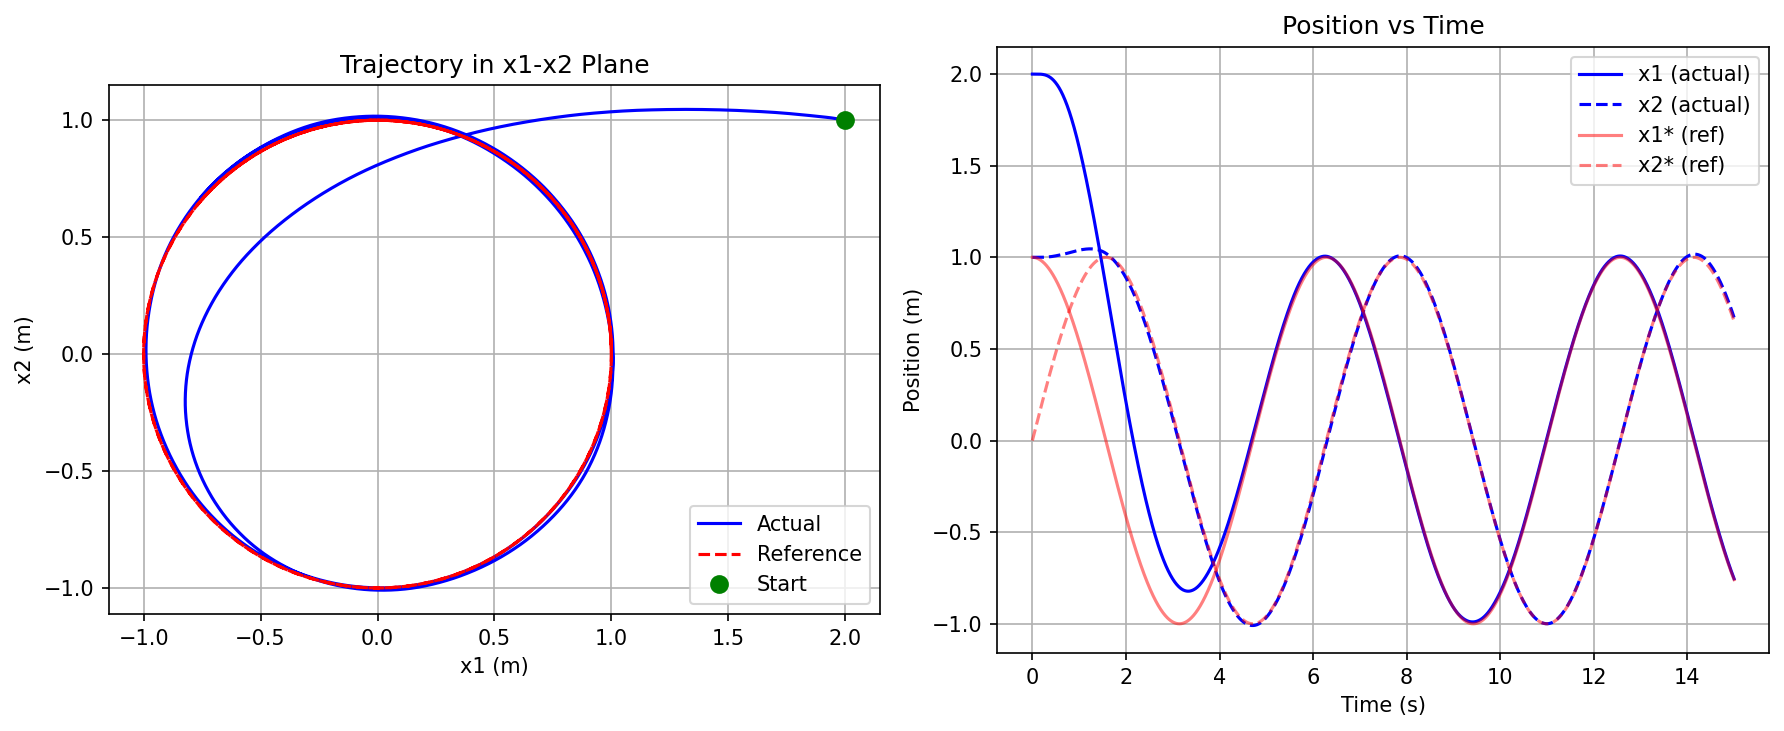
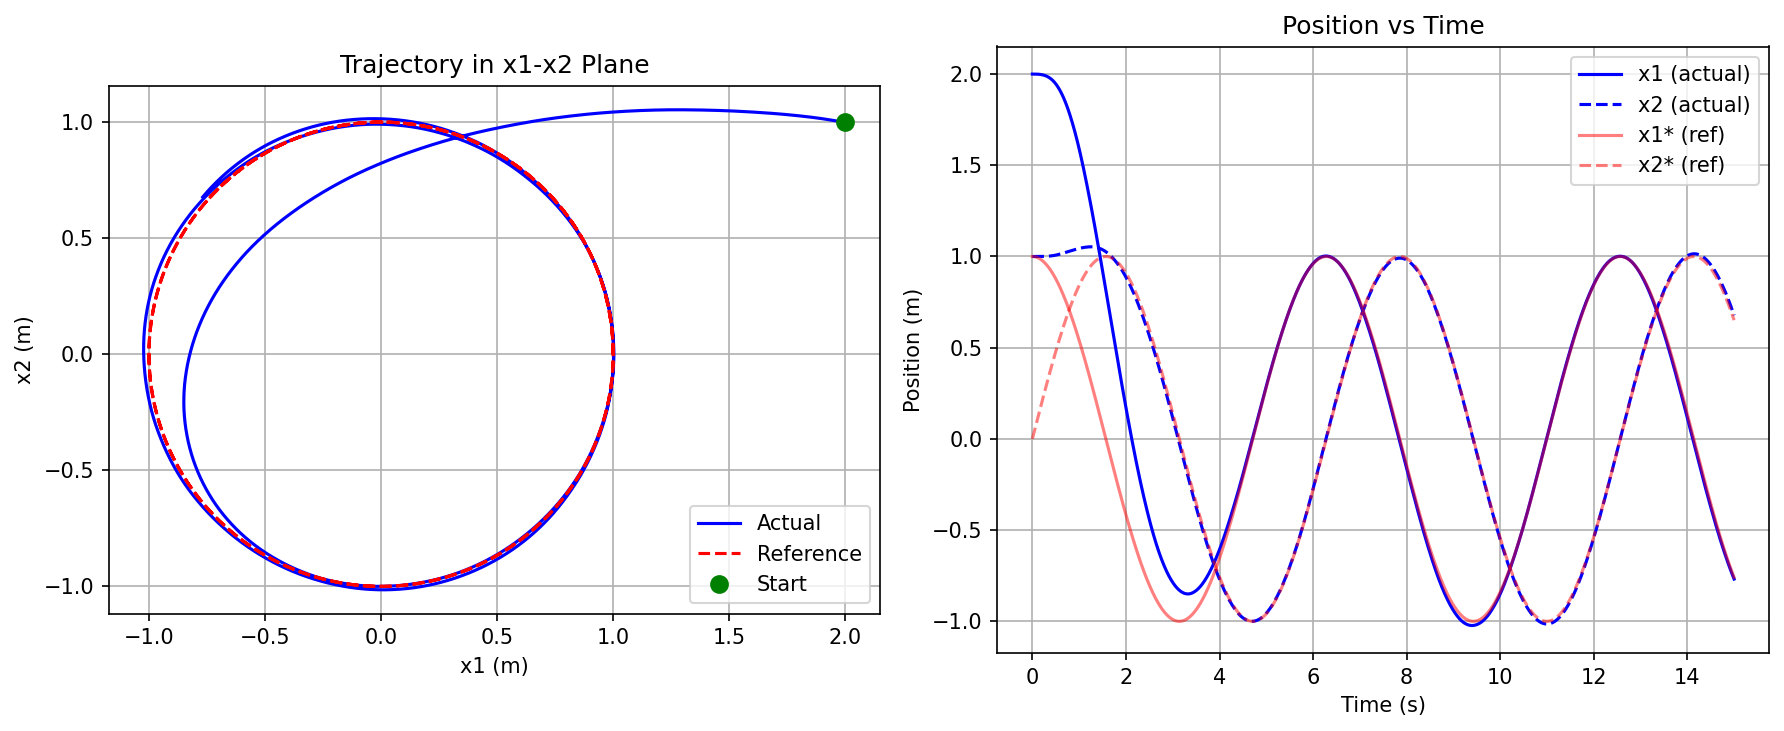
Section 3

diff --git a/tracking_cbf.py b/tracking_cbf.py
@@ -1,0 +1,278 @@
+import numpy as np
+from scipy.integrate import odeint
+import matplotlib.pyplot as plt
+
+# Parameters
+def get_params():
+    I = 1.0    # Moment of inertia
+    g = 9.8    # Gravitational acceleration (m/s^2)
+    m = 1.0    # Multirotor mass
+    return I, g, m
+
+# Reference trajectory
+def ref_trajectory(t, w):
+    c, s = np.cos(w*t), np.sin(w*t)
+    y      = np.array([ c,       s])
+    dy     = np.array([-w*s,     w*c])
+    ddy    = np.array([-w**2*c, -w**2*s])
+    dddy   = np.array([ w**3*s, -w**3*c])
+    ddddy  = np.array([ w**4*c,  w**4*s])
+    return y, dy, ddy, dddy, ddddy
+
+# Nominal tracking controller (from Part II)
+def nominal_controller(x_ext, t, w, lam):
+    x1, x2, v1, v2, theta, omega, x7, x8 = x_ext
+    I, g, m = get_params()
+    sin_t = np.sin(theta)
+    cos_t = np.cos(theta)
+
+    # Output derivatives from state
+    y    = np.array([x1, x2])
+    dy   = np.array([v1, v2])
+    ddy  = np.array([-x7*sin_t, x7*cos_t - g])
+    dddy = np.array([-x8*sin_t - x7*omega*cos_t,
+                      x8*cos_t - x7*omega*sin_t])
+
+    # State-only terms in y^(4)
+    b = np.array([
+        -2*x8*omega*cos_t + x7*omega**2*sin_t,
+        -2*x8*omega*sin_t - x7*omega**2*cos_t
+    ])
+
+    # Decoupling matrix
+    A_ext = np.array([
+        [-sin_t, -x7*cos_t],
+        [ cos_t, -x7*sin_t]
+    ])
+
+    # Reference and tracking errors
+    y_ref, dy_ref, ddy_ref, dddy_ref, ddddy_ref = ref_trajectory(t, w)
+    e    = y    - y_ref
+    ed   = dy   - dy_ref
+    edd  = ddy  - ddy_ref
+    eddd = dddy - dddy_ref
+
+    # Gains from (s + lambda)^4
+    k0 = lam**4
+    k1 = 4*lam**3
+    k2 = 6*lam**2
+    k3 = 4*lam
+
+    # Virtual input
+    nu = ddddy_ref - k3*eddd - k2*edd - k1*ed - k0*e
+
+    # Feedback linearizing law: u = A_ext^{-1}(nu - b)
+    try:
+        u_nom = np.linalg.solve(A_ext, nu - b)
+    except np.linalg.LinAlgError:
+        u_nom = np.array([0.0, 0.0])
+
+    return u_nom  # [u1_tilde, u2]
+
+# HOCBF computation
+def compute_hocbf(x_ext, L, gammas):
+    x1, x2, v1, v2, theta, omega, x7, x8 = x_ext
+    g1, g2, g3, g4 = gammas
+    sin_t = np.sin(theta)
+    cos_t = np.cos(theta)
+    I, g, m = get_params()
+
+    # h and its derivatives
+    h    = L - x1
+    h_d1 = -v1
+    h_d2 = x7*sin_t
+    h_d3 = x8*sin_t + x7*omega*cos_t
+
+    b_h = 2*x8*omega*cos_t - x7*omega**2*sin_t
+    L_g_h4 = np.array([sin_t, x7*cos_t])
+
+    # HOCBF chain
+    psi0 = h
+    psi1 = h_d1 + g1*h
+    psi2 = h_d2 + (g1+g2)*h_d1 + g1*g2*h
+    psi3 = (h_d3
+            + (g1+g2+g3)*h_d2
+            + (g1*g2 + g3*(g1+g2))*h_d1
+            + g1*g2*g3*h)
+
+    # psi3_dot split into state part (L_f) and input part (L_g)
+    c_h_d2 = g1*g2 + g3*(g1+g2)
+    L_f_psi3 = (b_h
+                + (g1+g2+g3)*h_d3
+                + c_h_d2*h_d2
+                + g1*g2*g3*h_d1)
+    L_g_psi3 = L_g_h4
+
+    return psi3, L_f_psi3, L_g_psi3
+
+# BF-QP safety filter
+def cbf_qp_filter(u_nom, x_ext, L, gammas):
+    g4 = gammas[3]
+    psi3, L_f_psi3, L_g_psi3 = compute_hocbf(x_ext, L, gammas)
+
+    # Constraint
+    a = L_g_psi3
+    c = -(L_f_psi3 + g4*psi3)
+
+    if a @ u_nom >= c:
+        return u_nom
+
+    a_norm_sq = a @ a
+    if a_norm_sq < 1e-10:
+        return u_nom
+
+    mu = u_nom + ((c - a @ u_nom) / a_norm_sq) * a
+    return mu
+
+# Controller
+def make_tracking_controller(w, lam):
+    def controller(x_ext, t):
+        return nominal_controller(x_ext, t, w, lam)
+    return controller
+
+def make_cbf_controller(w, lam, L, gammas):
+    def controller(x_ext, t):
+        u_nom = nominal_controller(x_ext, t, w, lam)
+        u_safe = cbf_qp_filter(u_nom, x_ext, L, gammas)
+        return u_safe
+    return controller
+
+# Extended system dynamics
+def extended_system(x_ext, t, controller):
+    I, g, m = get_params()
+    x1, x2, v1, v2, theta, omega, x7, x8 = x_ext
+    u1_tilde, u2 = controller(x_ext, t)
+
+    dx = np.zeros(8)
+    dx[0] = v1
+    dx[1] = v2
+    dx[2] = -(1/m)*x7*np.sin(theta)
+    dx[3] = (1/m)*x7*np.cos(theta) - g
+    dx[4] = omega
+    dx[5] = (1/I)*u2
+    dx[6] = x8
+    dx[7] = u1_tilde
+    return dx
+
+# xtended system with parameter mismatch
+def extended_system_mismatch(x_ext, t, controller):
+    m_true = 1.1    # controller assumes 1.0
+    g_true = 10.0   # controller assumes 9.8
+    I_true = 1.0
+
+    x1, x2, v1, v2, theta, omega, x7, x8 = x_ext
+    u1_tilde, u2 = controller(x_ext, t)
+
+    dx = np.zeros(8)
+    dx[0] = v1
+    dx[1] = v2
+    dx[2] = -(1/m_true)*x7*np.sin(theta)
+    dx[3] = (1/m_true)*x7*np.cos(theta) - g_true
+    dx[4] = omega
+    dx[5] = (1/I_true)*u2
+    dx[6] = x8
+    dx[7] = u1_tilde
+    return dx
+
+# Simulation
+def simulate_extended(x0, tfinal, timestep, controller, dynamics=None):
+    if dynamics is None:
+        dynamics = extended_system
+    t = np.arange(0, tfinal, timestep)
+    sol = odeint(dynamics, x0, t, args=(controller,))
+    return t, sol
+
+# Euler integration
+def simulate_euler_ext(x0, tfinal, dt, controller, dynamics=None, noise_std=0.0):
+    if dynamics is None:
+        dynamics = extended_system
+    t = np.arange(0, tfinal, dt)
+    x = np.array(x0, dtype=float)
+    sol = [x.copy()]
+    for i in range(1, len(t)):
+        dx = dynamics(x, t[i], controller)
+        noise = np.zeros(8)
+        noise[2] = np.random.normal(0, noise_std)
+        noise[3] = np.random.normal(0, noise_std)
+        noise[5] = np.random.normal(0, noise_std)
+        x = x + (dx + noise) * dt
+        sol.append(x.copy())
+    return t, np.array(sol)
+
+# Plot
+def plot_cbf_tracking(t, sol, w, L, save_path, sol_no_cbf=None):
+    """Plot trajectory with safety boundary."""
+    y_ref = np.array([ref_trajectory(ti, w)[0] for ti in t])
+
+    fig, axes = plt.subplots(1, 2, figsize=(12, 5))
+
+    # Left: trajectory in x1-x2 plane
+    if sol_no_cbf is not None:
+        axes[0].plot(sol_no_cbf[:, 0], sol_no_cbf[:, 1], 'g-',
+                     alpha=0.4, linewidth=1, label='Without CBF')
+    axes[0].plot(sol[:, 0], sol[:, 1], 'b-', label='With CBF', linewidth=1.5)
+    axes[0].plot(y_ref[:, 0], y_ref[:, 1], 'r--', label='Reference', linewidth=1.5)
+    axes[0].axvline(x=L, color='k', linestyle='-', linewidth=2, label=f'Barrier (L={L})')
+    axes[0].fill_betweenx([-2, 2], L, 2, alpha=0.1, color='red')
+    axes[0].plot(sol[0, 0], sol[0, 1], 'go', markersize=8, label='Start')
+    axes[0].set_xlabel('x1 (m)')
+    axes[0].set_ylabel('x2 (m)')
+    axes[0].set_title('Trajectory in x1-x2 Plane')
+    axes[0].legend(fontsize=8)
+    axes[0].set_aspect('equal')
+    axes[0].grid(True)
+
+    # Right: x1 position vs time with barrier
+    axes[1].plot(t, sol[:, 0], 'b-', label='x1 (with CBF)', linewidth=1.5)
+    if sol_no_cbf is not None:
+        axes[1].plot(t, sol_no_cbf[:, 0], 'g-', alpha=0.4, label='x1 (without CBF)')
+    axes[1].plot(t, y_ref[:, 0], 'r--', alpha=0.5, label='x1* (ref)')
+    axes[1].axhline(y=L, color='k', linestyle='-', linewidth=2, label=f'Barrier (L={L})')
+    axes[1].fill_between(t, L, L+0.5, alpha=0.1, color='red')
+    axes[1].set_xlabel('Time (s)')
+    axes[1].set_ylabel('Position (m)')
+    axes[1].set_title('Horizontal Position vs Time')
+    axes[1].legend(fontsize=8)
+    axes[1].grid(True)
+
+    plt.tight_layout()
+    plt.savefig(save_path, dpi=150, bbox_inches='tight')
+    plt.show()
+
+# Run simulations
+I, g, m = get_params()
+w = 1.0        # Circular trajectory speed
+lam = 2.0      # Tracking pole placement
+L = 0.6        # Safety barrier x1 <= L
+tfinal = 20.0
+timestep = 0.001
+
+# HOCBF gains [gamma1, gamma2, gamma3, gamma4]
+gammas = [5.0, 5.0, 5.0, 5.0]
+
+# Initial condition: start inside safe set (x1 = 0.5 < L = 0.6)
+x0 = [0.5, 0.0, 0.0, w, 0.0, 0.0, g, 0.0]
+
+# 1. Without CBF
+print("Simulating without CBF...")
+ctrl_nom = make_tracking_controller(w, lam)
+t, sol_no_cbf = simulate_extended(x0, tfinal, timestep, ctrl_nom)
+
+# With CBF
+print("Simulating with CBF (no noise)...")
+ctrl_cbf = make_cbf_controller(w, lam, L, gammas)
+t, sol_cbf = simulate_extended(x0, tfinal, timestep, ctrl_cbf)
+plot_cbf_tracking(t, sol_cbf, w, L, "cbf_no_noise.png", sol_no_cbf=sol_no_cbf)
+
+# With CBF + noise
+print("Simulating with CBF + noise...")
+t, sol_cbf_noise = simulate_euler_ext(x0, tfinal, timestep, ctrl_cbf, noise_std=0.3)
+plot_cbf_tracking(t, sol_cbf_noise, w, L, "cbf_with_noise.png")
+
+# 4. With CBF + parameter mismatch
+print("Simulating with CBF + parameter mismatch (m=1.1, g=10.0)...")
+t, sol_cbf_mismatch = simulate_extended(
+    x0, tfinal, timestep, ctrl_cbf, dynamics=extended_system_mismatch)
+plot_cbf_tracking(t, sol_cbf_mismatch, w, L, "cbf_mismatch.png")
+
+print("Done!")
